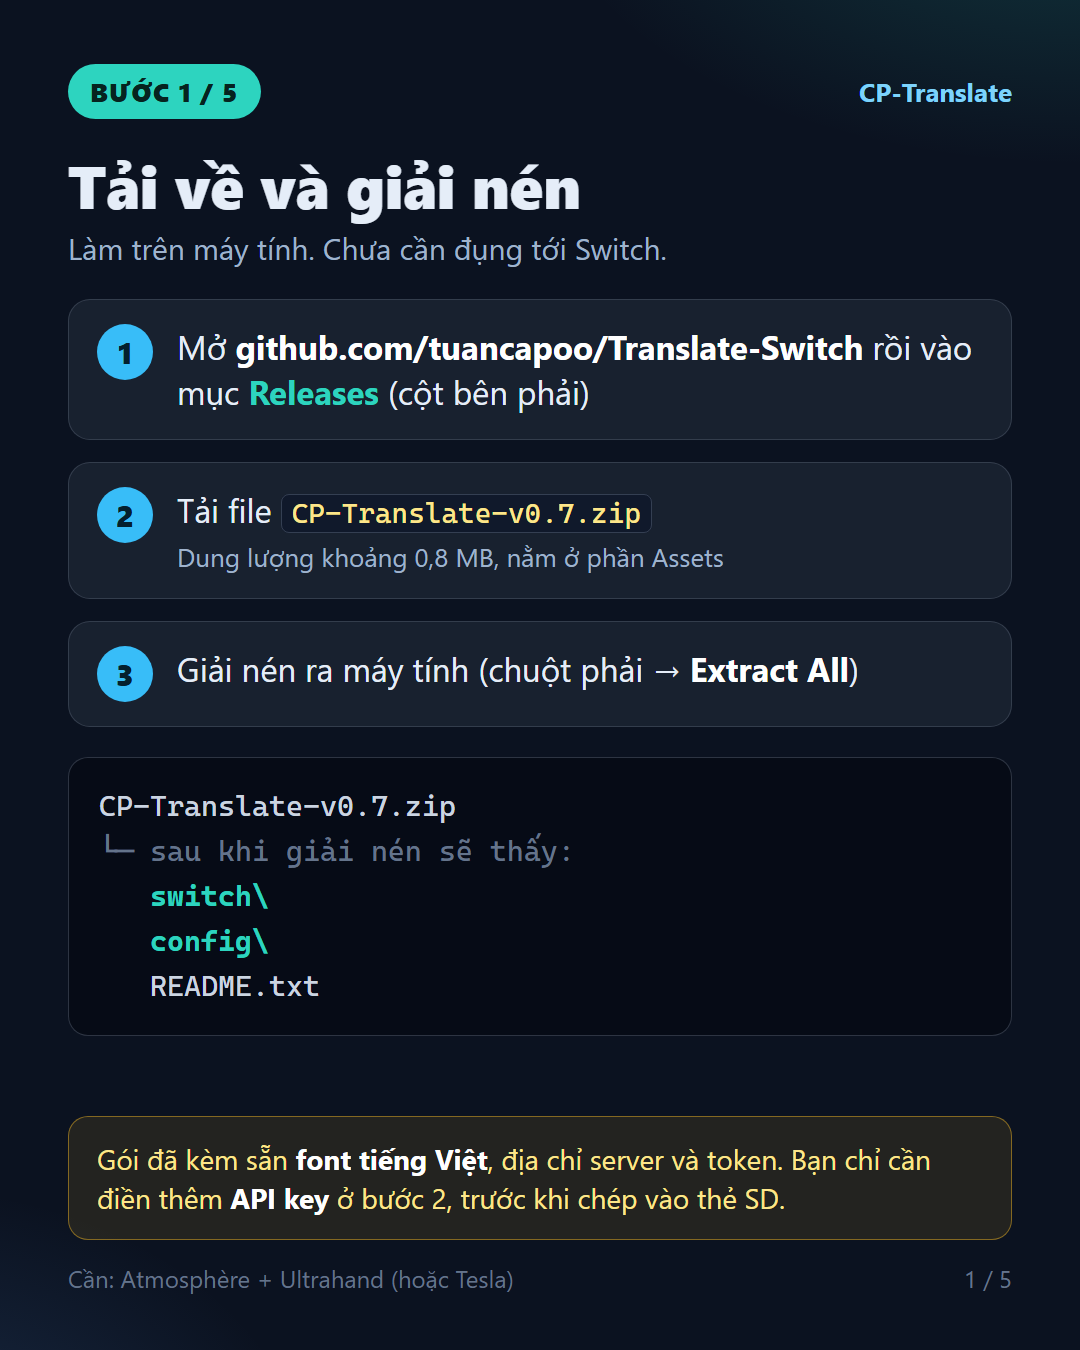
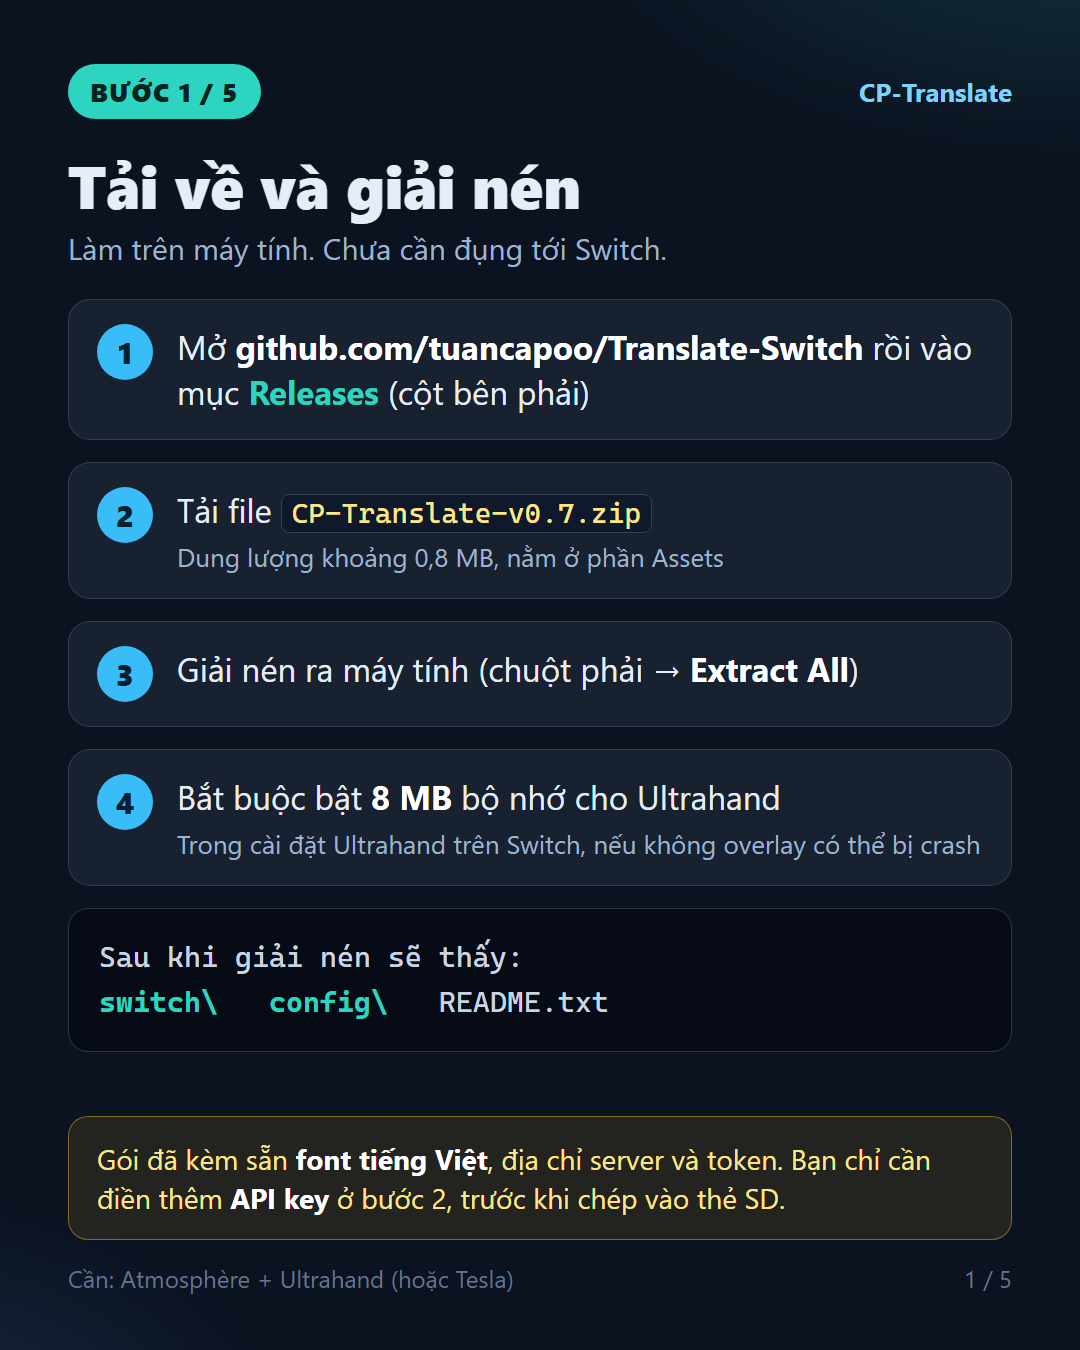
Guide step 1: require 8 MB memory for Ultrahand

Changed region(s): [[0.0611, 0.56, 0.9472, 0.7778], [0.5194, 0.7156, 0.55, 0.7467]]

diff --git a/docs/guide/src/step1.html b/docs/guide/src/step1.html
@@ -9,13 +9,11 @@
     <div class="step"><div class="num">1</div><p>Mở <b>github.com/tuancapoo/Translate-Switch</b> rồi vào mục <span class="hl">Releases</span> (cột bên phải)</p></div>
     <div class="step"><div class="num">2</div><p>Tải file <code>CP-Translate-v0.7.zip</code><small>Dung lượng khoảng 0,8 MB, nằm ở phần Assets</small></p></div>
     <div class="step"><div class="num">3</div><p>Giải nén ra máy tính (chuột phải → <b>Extract All</b>)</p></div>
+    <div class="step"><div class="num">4</div><p>Bắt buộc bật <b>8 MB</b> bộ nhớ cho Ultrahand<small>Trong cài đặt Ultrahand trên Switch, nếu không overlay có thể bị crash</small></p></div>
   </div>
 
-  <div class="panel" style="margin-top:30px">CP-Translate-v0.7.zip
-<span class="dim">└─ sau khi giải nén sẽ thấy:</span>
-   <span class="new">switch\</span>
-   <span class="new">config\</span>
-   README.txt</div>
+  <div class="panel" style="margin-top:22px">Sau khi giải nén sẽ thấy:
+<span class="new">switch\</span>   <span class="new">config\</span>   README.txt</div>
 
   <div class="sp"></div>
   <div class="note">Gói đã kèm sẵn <b>font tiếng Việt</b>, địa chỉ server và token. Bạn chỉ cần điền thêm <b>API key</b> ở bước 2, trước khi chép vào thẻ SD.</div>
